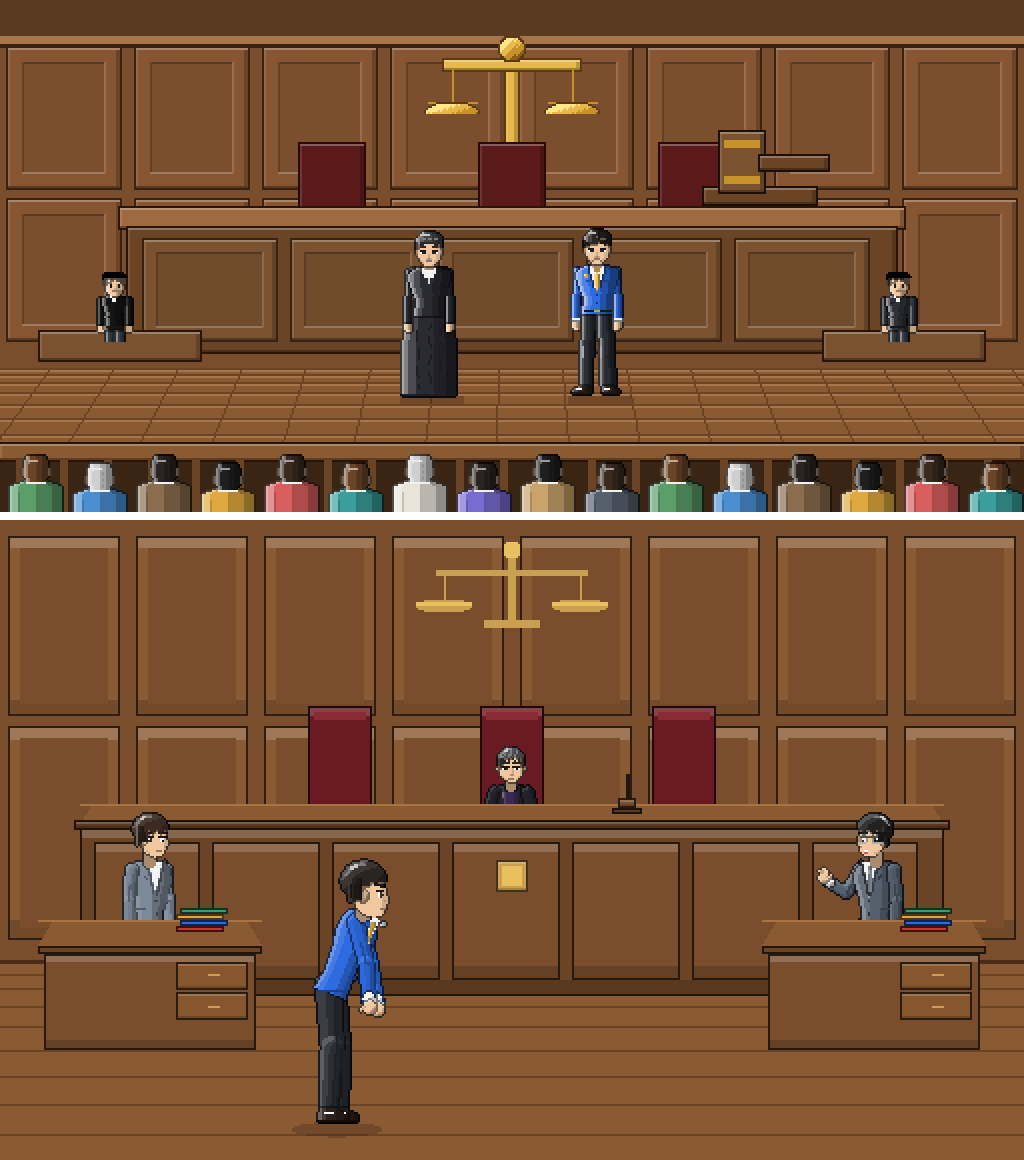
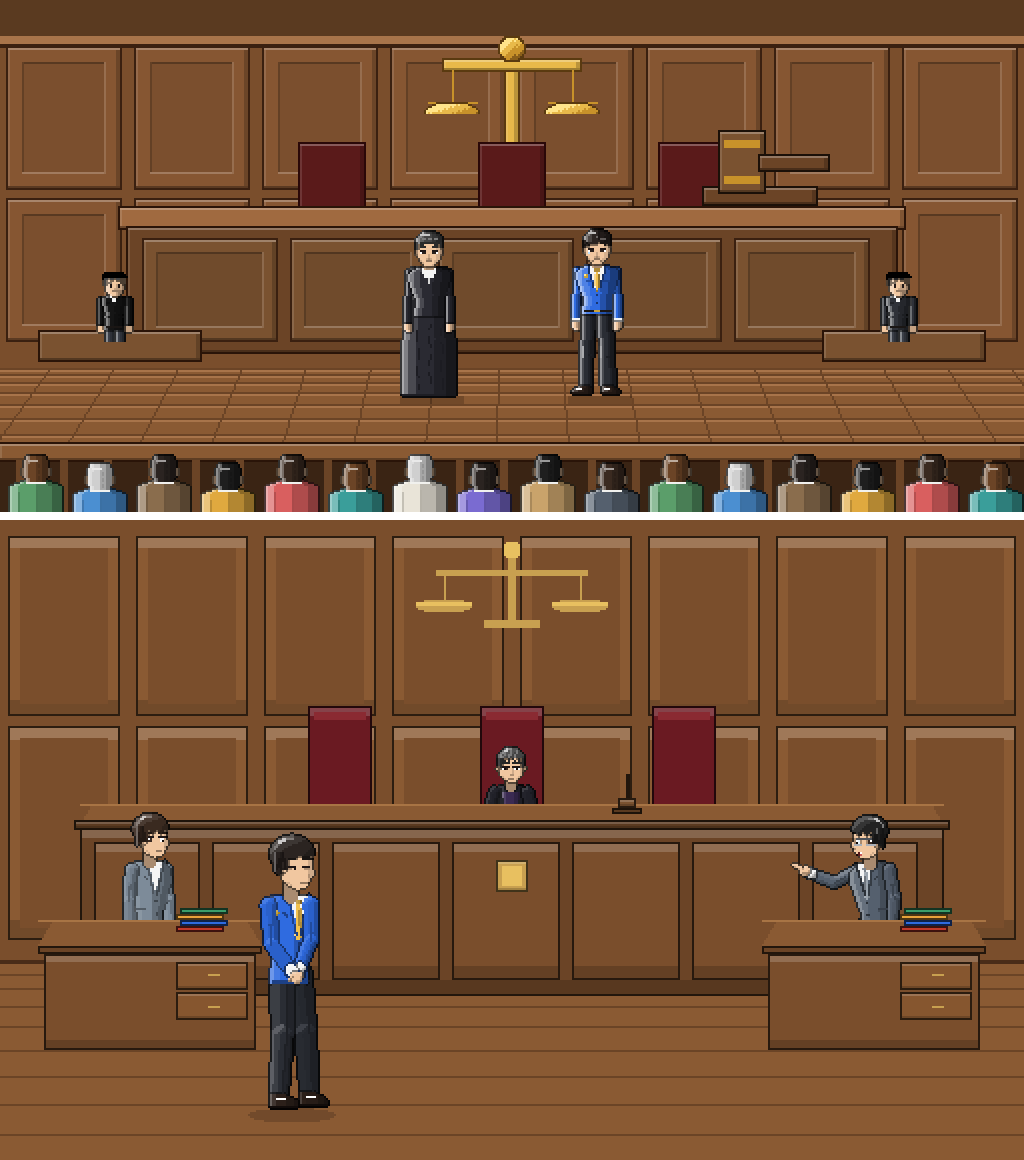
도트 시안: 법정 장면 재배치(피고인은 변호인 옆에서 손 모으고 경청, 검사는 지목), 손 모은 자세 추가
Claude-Session: https://claude.ai/code/session_013m8QWBoerfQ3FYRNweRjck

Changed region(s): [[0.25, 0.7138, 0.375, 0.9931], [0.7812, 0.6828, 0.9062, 0.8069]]

diff --git a/proto/px_scenes_render.js b/proto/px_scenes_render.js
@@ -6,7 +6,7 @@ const out=await p.evaluate(()=>{try{S={party:'jj',look:{st:'part',h:'#2b2421',s:
  const SC=[
   ['street|me^,cit+,old|banner','street',[['me','shake',420,592,0,{face:'smile'}],['old','shake',566,596,1,{face:'smile'}],['cit','cheerQ',760,552,1,{face:'smile'}]]],
   ['office|biz,me|book,cash','office',[['biz','give',388,590,0,{face:'smile'}],['me','think',584,604,1]],[[598,(c,sc)=>hdCase(c,300,598,pxm(sc,598))]]],
-  ['court|judge,me~|gavel','court',[['me','bow',330,604,0,{face:'sad'}]]],
+  ['court|judge,me~|gavel','court',[['me','clasp',292,590,0,{face:'down2'}]]],
  ];const res=[];
  SC.forEach(([old,bg,ppl,more])=>{const a=document.createElement('canvas');a.width=512;a.height=256;drawPx(old,a);const b=document.createElement('canvas');b.width=512;b.height=320;sceneHD(b,bg,ppl,more);
    const o=document.createElement('canvas');o.width=1024;o.height=512+8+640;const c=o.getContext('2d');c.imageSmoothingEnabled=false;c.fillStyle='#fff';c.fillRect(0,0,o.width,o.height);c.drawImage(a,0,0,1024,512);c.drawImage(b,0,520,1024,640);res.push(o.toDataURL());

diff --git a/proto/hd.js b/proto/hd.js
@@ -62,6 +62,7 @@ const HPOSE={
   camera: {d:'q',A:[[5,9],[8,-3]],B:[[6,8],[11,-4]],aFront:2,hB:'cam',lA:[[-1,18],[-3,36]],lB:[[3,18],[6,36]]},
   sign:   {d:'f',A:[[-5,4],[-3,-10]],B:[[5,4],[3,-10]],aFront:1,hA:'fist',hB:'sign',lA:[[-1,18],[-2,36]],lB:[[1,18],[2,36]],face:'talk'},
   cheerQ: {d:'q',A:[[-1,12],[0,25]],B:[[5,-6],[7,-18]],hB:'fist',lA:[[0,18],[-2,36]],lB:[[2,18],[4,36]],face:'talk'},
+  clasp:  {d:'q',A:[[1,12],[8,21]],B:[[0,11],[-4,21]],aFront:2,hA:'open',hB:'fist',lA:[[0,18],[-1,36]],lB:[[2,18],[3,36]],face:'down2'},
   clap:   {d:'q',A:[[3,10],[10,6]],B:[[5,9],[11,5]],aFront:2,hA:'open',hB:'open',lA:[[0,18],[-1,36]],lB:[[2,18],[3,36]],face:'smile'},
   judge:  {d:'f',A:[[-3,11],[2,20]],B:[[3,11],[-2,20]],aFront:1,lA:[[-1,18],[-1,36]],lB:[[1,18],[1,36]]},
 };

diff --git a/proto/bghd.js b/proto/bghd.js
@@ -99,7 +99,7 @@ const BGHD={
         T.box(496,top+34,32,32,'#c8a050');T.R(502,top+40,20,20,'#e8c060');
         const gy=top-.2*m*.5;T.box(612,gy-.05*m,.26*m,.05*m,'#5a3a20');T.box(618,gy-.15*m,.16*m,.1*m,'#7a5230');T.box(626,gy-.34*m,.04*m,.2*m,'#6b4426')}],
       [530,ctx=>{const mm=pxm(sc,530);hdDesk(ctx,150,530,mm,{files:1});hdDesk(ctx,874,530,mm,{files:1})}]]},
-    extras:[['judge','judge',512,452,0,{lift:.45}],['rep','idleQ',150,512,0],['aide','talkQ',876,512,1]]},
+    extras:[['judge','judge',512,452,0,{lift:.45}],['rep','idleQ',150,512,0],['aide','point',876,512,1,{face:'angry'}]]},
 };
 
 /* 장면: ppl = [[종류, 자세, x, 발 y, 왼쪽 보기, 표정/외모]] */
